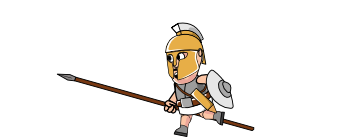
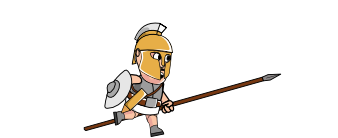
add second npc for animation test

Changed region(s): [[0.1479, 0.1449, 0.8284, 1.0]]

diff --git a/characters/entity.py b/characters/entity.py
@@ -1,3 +1,4 @@
+import random
 import pygame
 
 from characters.Player.Animatesprite.animatesprite import Animate_Sprite
@@ -109,7 +110,7 @@ class Player(Entity):
     def update_health_bar(self, surface):
         # dessiner la bar de vie
         head = pygame.image.load('assets/head/head.png')
-
+        # head.set_colorkey([0, 0, 0])
         surface.blit(head, (10, 20))
 
         pygame.draw.rect(
@@ -132,7 +133,7 @@ class NPC(Entity):
         # self.dialog = dialog
         self.points = []
         self.name = name
-        self.speed_walk = 2
+        self.speed_walk = random.randint(1, 3)
         self.current_point = 0
 
     def teleport_spawn(self):
@@ -157,6 +158,7 @@ class NPC(Entity):
         if current_rect.x < target_rect.x and abs(current_rect.y - target_rect.y) < 3:
             self.move_right()
             self.animate()
+            
 
         if self.rect.colliderect(target_rect):
             self.current_point = target_point

diff --git a/Data/Menu/menu.py b/Data/Menu/menu.py
@@ -9,8 +9,8 @@ import Data.data as data
 class Menu:
     def __init__(self):
         self.running = True
-        # self.screen = pygame.display.set_mode((0, 0), pygame.FULLSCREEN)
-        self.screen = pygame.display.set_mode((settings.DISPLAY_X, settings.DISPLAY_Y))
+        self.screen = pygame.display.set_mode((0, 0), pygame.FULLSCREEN)
+        # self.screen = pygame.display.set_mode((settings.DISPLAY_X, settings.DISPLAY_Y))
 
         pygame.display.set_caption(data.GAME_NAME)
         self.game = Game(self.screen)

diff --git a/Data/Map/map.py b/Data/Map/map.py
@@ -42,7 +42,8 @@ class MapManager:
             Portal(from_world="carte", origin_point="enter_carte2",
                    target_world="carte2", teleport_point="spawn_carte2")
         ], npcs=[
-            NPC("grec", nb_points=2)
+            NPC("grec", nb_points=2),
+            NPC("greclance", nb_points=2)
         ])
         self.register_map("carte2", portals=[
             Portal(from_world="carte2", origin_point="enter_carte1",

diff --git a/game.py b/game.py
@@ -1,8 +1,6 @@
-from turtle import screensize
 import pygame
 from Data.Map.map import MapManager
-from characters.entity import NPC, Entity, Player
-
+from characters.entity import Player
 
 
 class Game:
